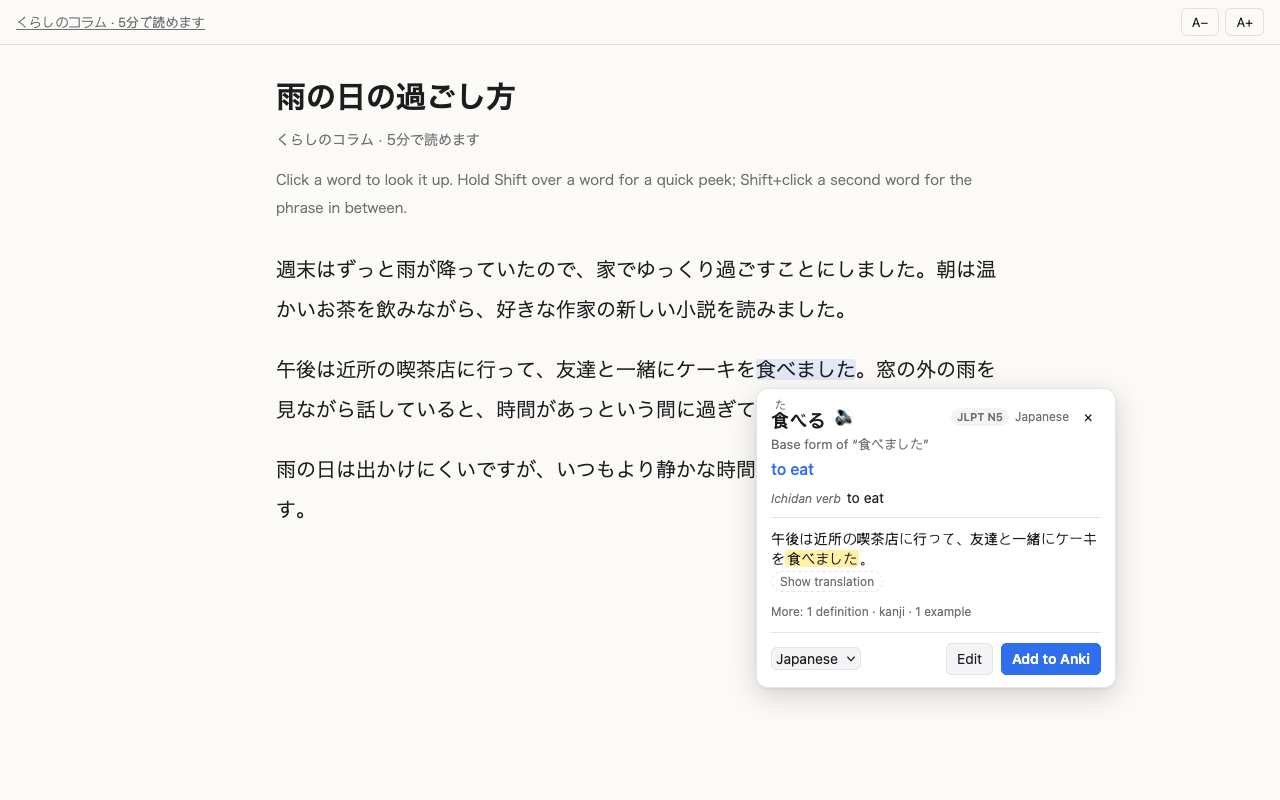
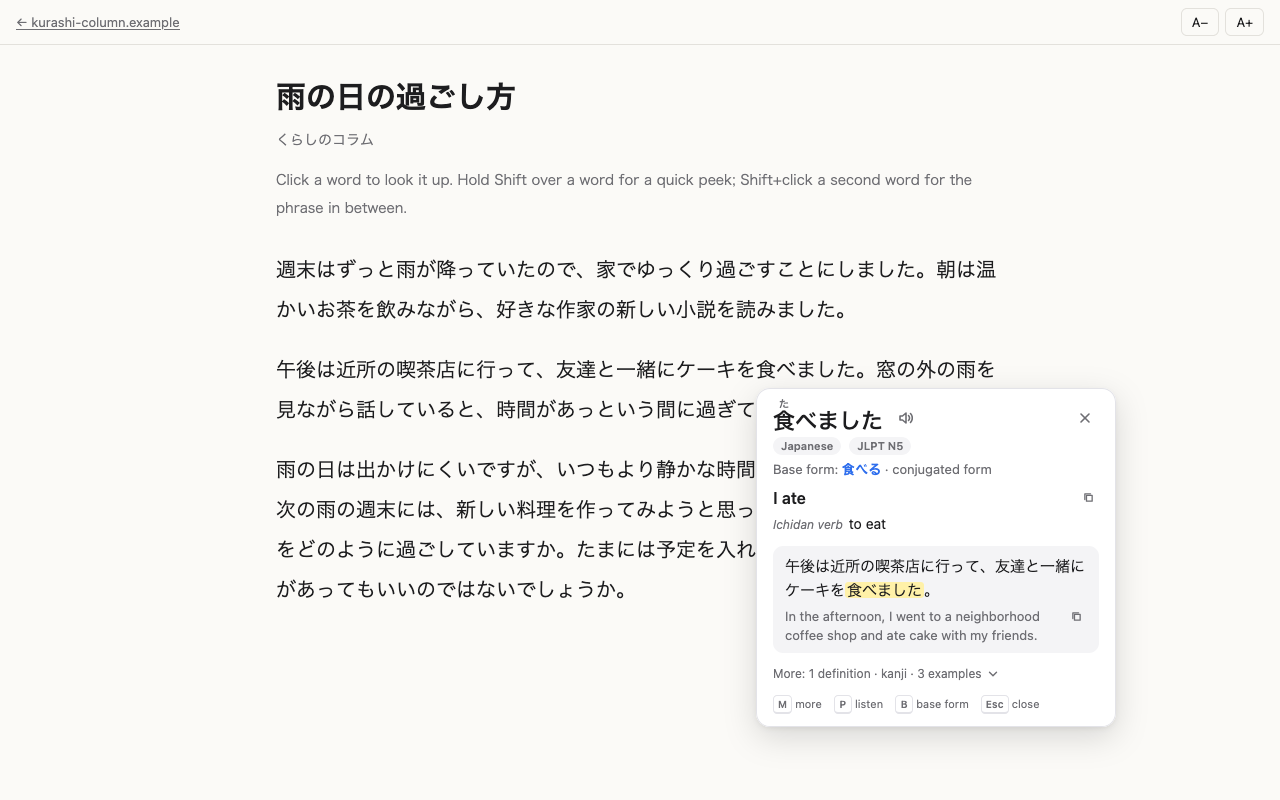
Update store screenshots and shorten description

diff --git a/store/LISTING.md b/store/LISTING.md
@@ -51,41 +51,25 @@ npx web-ext sign --channel=listed --api-key=$AMO_JWT_ISSUER --api-secret=$AMO_JW
 **Description:**
 
 ```
-Language Companion helps you understand Japanese and Korean in real content: news, blogs, novels, manga and YouTube. Select a word or a sentence and see what it means right there, without leaving the page.
+Language Companion helps you understand Japanese and Korean in real content. Select a word or a sentence and see what it means right there, without leaving the page.
 
-<b>Translate what you read</b>
-• Translation, reading and the main definition at a glance, plus the translation of the whole sentence
-• Furigana for Japanese
-• Conjugated words lead to their dictionary form: 食べました → 食べる, 갔어요 → 가다, 학교에 → 학교
-• Kanji breakdown: 学校 → 学 study · 校 school
-• JLPT level or word frequency ("Top 2k"), so you know what is worth learning first
-• Select the next word and the same card updates; drag it anywhere on screen while you read
+• Translation, reading, dictionary form and kanji, plus the translation of the whole sentence
+• Manga and webtoons: click a speech bubble to read and translate its text
+• A calm reader view for articles, and clickable YouTube subtitles
+• Optional: save words to Anki in one click
 
-<b>Manga and webtoons</b>
-On sites like Shonen Jump+, click a speech bubble to see its text and translation, then click or drag across words to look them up. The text is recognised on your computer: Japanese with manga-ocr, which was trained on manga, Korean with PaddleOCR. On by default for Shonen Jump+, one switch for other sites.
+No account, no tracking. Text in images is recognised on your computer.
 
-<b>Reader</b>
-Open any article in a calm reader view where every word is clickable. This helps most with Japanese, where words have no spaces between them. Hold Shift over a word for a quick peek at its reading and meaning.
-
-<b>YouTube</b>
-Click a word in the subtitles. The video pauses, the card opens, and the subtitle line becomes the sentence.
-
-<b>Optional: Anki</b>
-Turn it on to save words as flashcards in one click, with the sentence, reading, audio and a link back to the page. A deck per language, duplicate detection, and notes wait while Anki is closed. Needs Anki Desktop with the free AnkiConnect add-on.
-
-<b>Privacy</b>
-No account, no tracking, no server of its own. Only what you look up goes to the dictionary and translation services you turn on. Text in images is recognised on your computer, and screenshots are never saved or sent.
-
-Dictionaries: Jisho, KANJIDIC2, Wiktionary, Tatoeba, FrequencyWords. Text recognition: manga-ocr, PaddleOCR. Thanks to their authors.
+Data: Jisho, KANJIDIC2, Wiktionary, Tatoeba, FrequencyWords. Text recognition: manga-ocr, PaddleOCR.
 ```
 
 **Privacy policy:** paste the contents of `PRIVACY.md` (with `https://github.com/mirodn/language-companion` filled in).
 
 **Screenshot captions:**
 
-1. `1-japanese-reader.png`: Click any word in the reader: reading, dictionary form and meaning at a glance.
-2. `3-korean-page.png`: Works on any page. Korean verbs lead to their dictionary form.
-3. To do: a manga page with a speech bubble open in the card (text, translation, a picked word).
+1. `1-japanese-reader.png`: Reader view: reading, dictionary form and meaning at a glance.
+2. `2-manga-bubble.png`: Click a speech bubble to read and translate its text. The page is our own drawing.
+3. `3-korean-page.png`: Works on any page. Korean verbs lead to their dictionary form.
 
 **Release notes for 0.5.0:**
 
